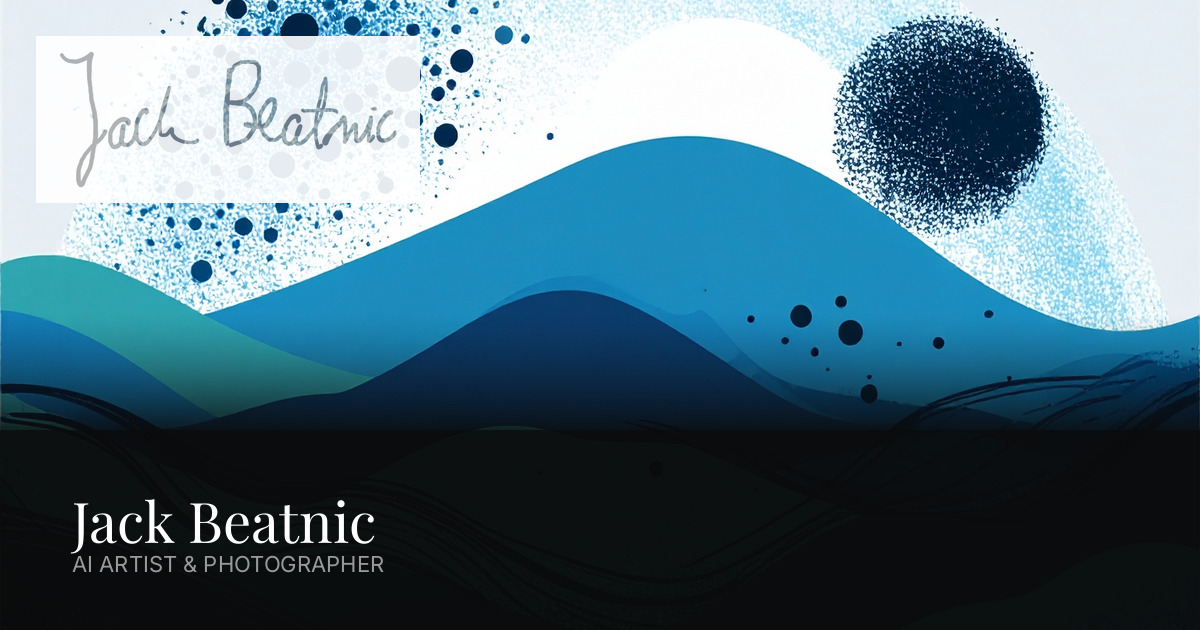
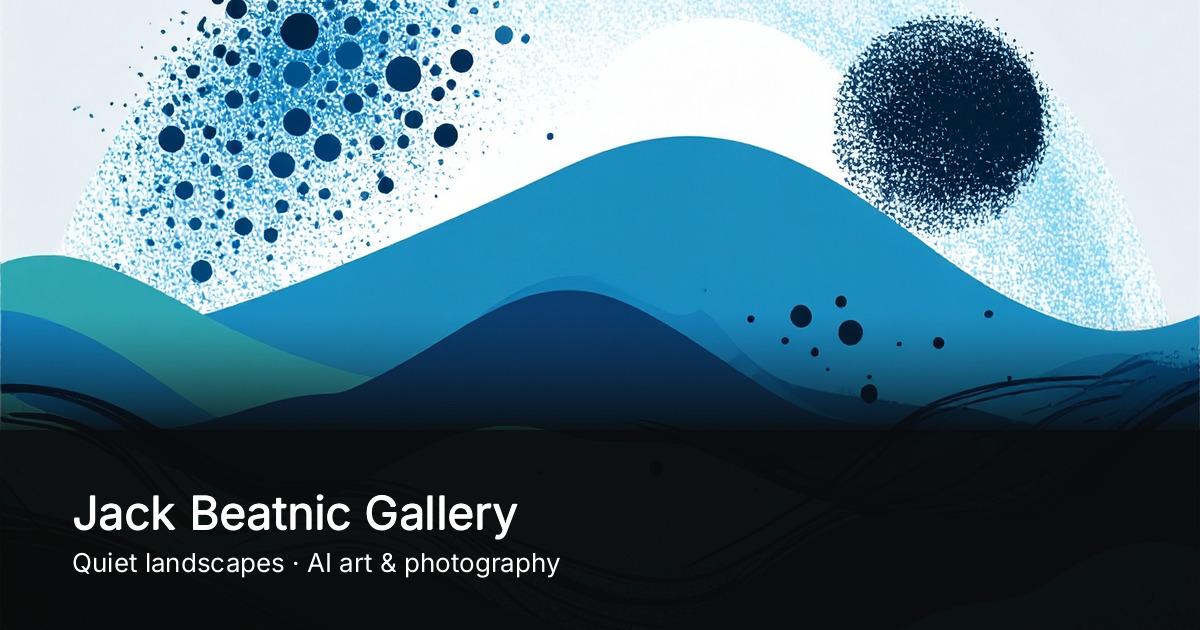
Simplify OG preview: drop signature, add gallery title and blurb
White bold Jack Beatnic Gallery with short tagline on the dark bar;
NFT artwork background unchanged.

Changed region(s): [[0.0308, 0.0302, 0.37, 0.3317], [0.0617, 0.7841, 0.4625, 0.9349]]

diff --git a/generuj_og_preview.py b/generuj_og_preview.py
@@ -13,15 +13,15 @@ from PIL import Image, ImageDraw, ImageFont
 
 ROOT = Path(__file__).resolve().parent
 GALLERY_JSON = ROOT / "gallery.json"
-SIGNATURE_PATH = ROOT / "assets" / "signature.png"
 OUTPUT_PATH = ROOT / "assets" / "og-preview.jpg"
 FONTS_DIR = ROOT / "assets" / "fonts"
 
 WIDTH = 1200
 HEIGHT = 630
 BAR_HEIGHT = 200
-SIGNATURE_MAX_W = 340
-SIGNATURE_PAD = 36
+
+OG_TITLE = "Jack Beatnic Gallery"
+OG_BLURB = "Quiet landscapes · AI art & photography"
 
 
 def load_gallery() -> dict:
@@ -57,15 +57,6 @@ def cover_crop(img: Image.Image, width: int, height: int, focus_y: float = 0.4) 
     return cropped.resize((width, height), Image.Resampling.LANCZOS)
 
 
-def fit_signature(sig: Image.Image, max_width: int) -> Image.Image:
-    sig = sig.convert("RGBA")
-    w, h = sig.size
-    if w <= max_width:
-        return sig
-    scale = max_width / w
-    return sig.resize((max_width, int(h * scale)), Image.Resampling.LANCZOS)
-
-
 def draw_gradient_bar(base: Image.Image) -> Image.Image:
     """Dark bottom bar with soft fade into artwork."""
     overlay = Image.new("RGBA", (WIDTH, HEIGHT), (0, 0, 0, 0))
@@ -85,55 +76,40 @@ def draw_gradient_bar(base: Image.Image) -> Image.Image:
     return Image.alpha_composite(base.convert("RGBA"), overlay)
 
 
-def place_signature(canvas: Image.Image, sig: Image.Image) -> Image.Image:
-    """Signature on a subtle light panel (matches site header)."""
-    sig = fit_signature(sig, SIGNATURE_MAX_W)
-    sw, sh = sig.size
-    pad_x, pad_y = 22, 14
-    panel_w = sw + pad_x * 2
-    panel_h = sh + pad_y * 2
-    panel = Image.new("RGBA", (panel_w, panel_h), (255, 255, 255, 230))
-    panel.paste(sig, (pad_x, pad_y), sig)
-
-    x = SIGNATURE_PAD
-    y = SIGNATURE_PAD
-    out = canvas.copy()
-    out.paste(panel, (x, y), panel)
-    return out
-
-
-def draw_text(canvas: Image.Image, title: str, tagline: str) -> Image.Image:
-    playfair = ImageFont.truetype(str(FONTS_DIR / "PlayfairDisplay.ttf"), 56)
-    inter = ImageFont.truetype(str(FONTS_DIR / "Inter.ttf"), 22)
+def draw_text(canvas: Image.Image, title: str, blurb: str) -> Image.Image:
+    title_font = ImageFont.truetype(str(FONTS_DIR / "Inter.ttf"), 46)
+    blurb_font = ImageFont.truetype(str(FONTS_DIR / "Inter.ttf"), 26)
 
     draw = ImageDraw.Draw(canvas)
     bar_top = HEIGHT - BAR_HEIGHT
     text_x = 72
-    title_y = bar_top + 52
-    tag_y = title_y + 68
+    title_y = bar_top + 54
+    blurb_y = title_y + 62
+    white = (255, 255, 255, 255)
 
-    draw.text((text_x, title_y), title, font=playfair, fill=(255, 255, 255, 255))
-    draw.text((text_x, tag_y), tagline.upper(), font=inter, fill=(154, 154, 154, 255))
+    # Faux-bold title (variable Inter has no weight axis in PIL).
+    for dx, dy in ((0, 0), (1, 0), (0, 1)):
+        draw.text((text_x + dx, title_y + dy), title, font=title_font, fill=white)
+    draw.text((text_x, blurb_y), blurb, font=blurb_font, fill=white)
     return canvas
 
 
 def generate(output: Path = OUTPUT_PATH) -> Path:
     data = load_gallery()
-    info = data["collection_info"]
     nfts = data.get("nfts") or []
     if not nfts:
         raise SystemExit("gallery.json: brak NFT do tła")
 
     bg_url = nfts[0]["image_url"]
-    title = info.get("hero_title") or info.get("artist") or "Jack Beatnic"
-    tagline = info.get("hero_tagline") or "AI Artist & Photographer"
+    info = data["collection_info"]
+    title = info.get("project_name") or OG_TITLE
+    blurb = OG_BLURB
 
     print(f"Tło: {nfts[0].get('name', bg_url)}")
     bg = fetch_image(bg_url)
     canvas = cover_crop(bg, WIDTH, HEIGHT, focus_y=0.4)
     canvas = draw_gradient_bar(canvas)
-    canvas = place_signature(canvas, Image.open(SIGNATURE_PATH))
-    canvas = draw_text(canvas, title, tagline)
+    canvas = draw_text(canvas, title, blurb)
 
     output.parent.mkdir(parents=True, exist_ok=True)
     canvas.convert("RGB").save(output, "JPEG", quality=92, optimize=True, subsampling=0)
